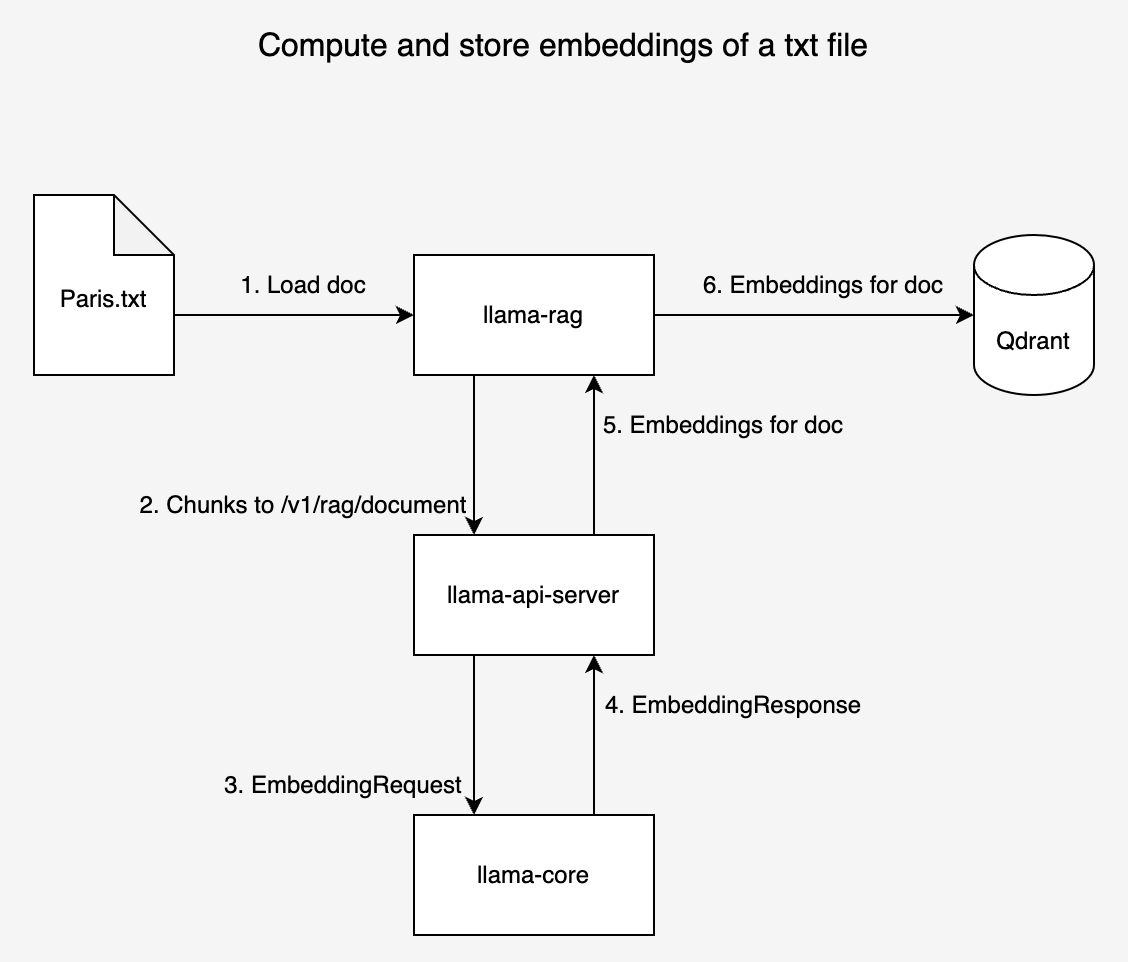
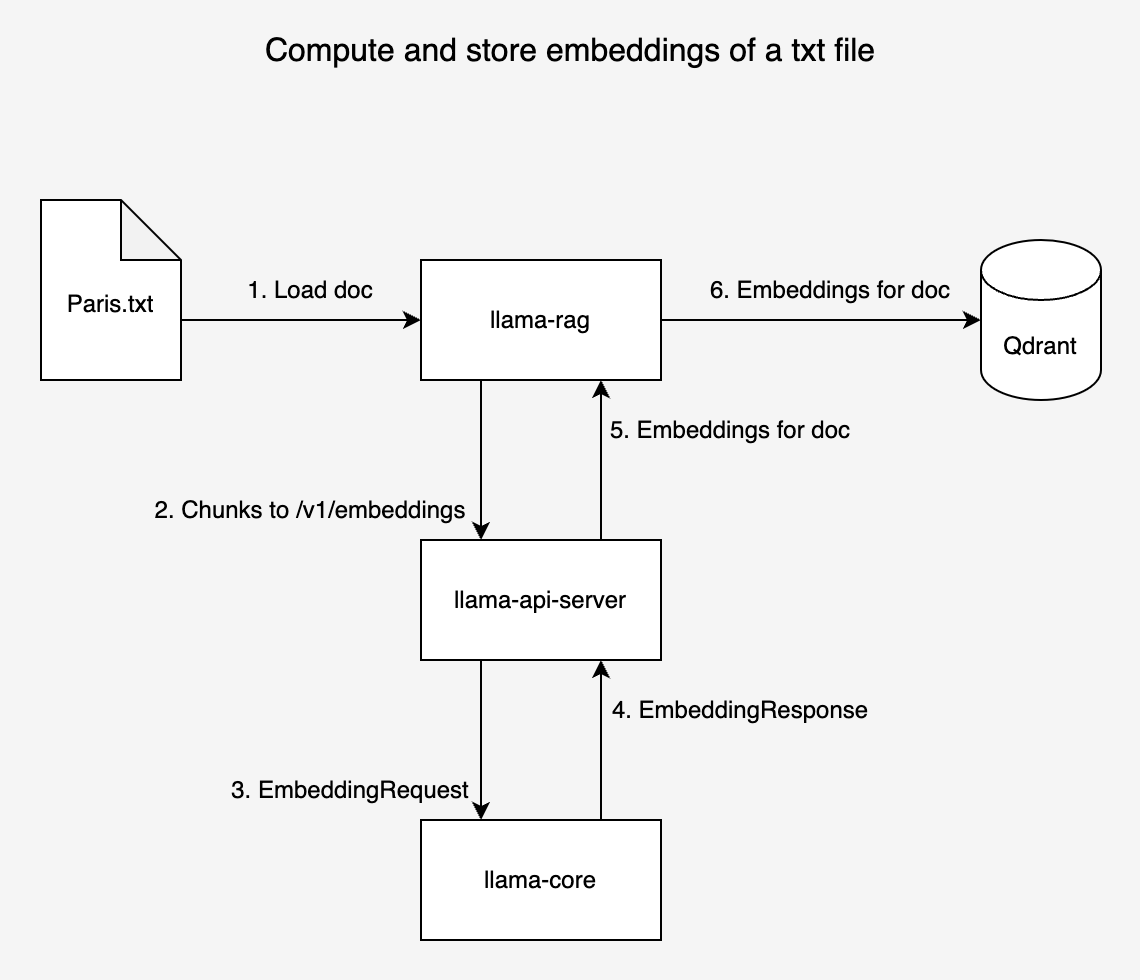
doc: update `README`

diff --git a/README.md b/README.md
@@ -2,11 +2,11 @@
 
 This repository demonstrates a RAG chatbot powered by LlamaEdge RAG. The chatbot uses
 
-- `/v1/rag/document` endpoint of the `llama-api-server` to (1) compute the embeddings for the given document and (2) persist the embeddings in the specified Qdrant DB.
+- The `/v1/embedding` endpoint of the `llama-api-server` to (1) compute the embeddings for the given document and (2) persist the embeddings in the specified Qdrant DB.
 
-- `/v1/rag/query` endpoint of the `llama-api-server` to (1) compute the embeddings for the user question and (2) query the Qdrant DB and retrieve the most similar documents to the user's input.
+- The `/v1/chat/completions` endpoint of the `llama-api-server` to (1) compute the embeddings for the user question; (2) query the Qdrant DB and retrieve the most similar documents to the user's input; (3) generate the completions for the user's input.
 
-- `/v1/chat/completions` endpoint of the `llama-api-server` to generate the completions for the user's input.
+Note that it is required to specify `--qdrant-url`, `--qdrant-collection-name`, `--qdrant-limit` CLI options while starting the `llama-api-server` to enable the RAG service.
 
 The entire workflow is depicted in the diagrams in the [Workflow](#workflow) section.
 
